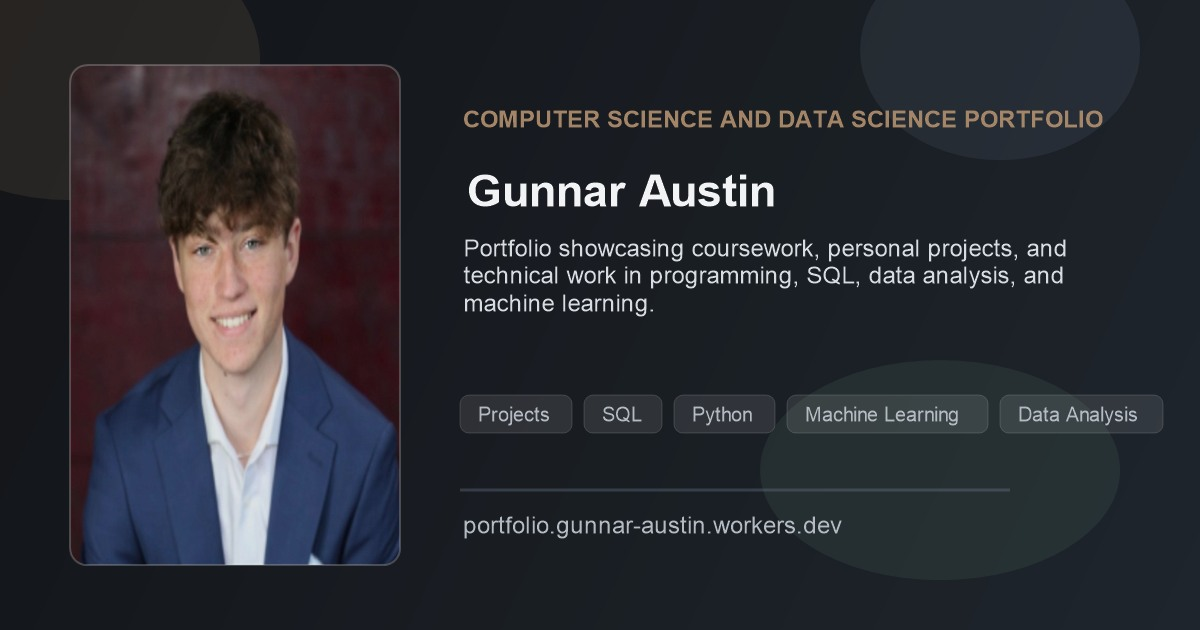
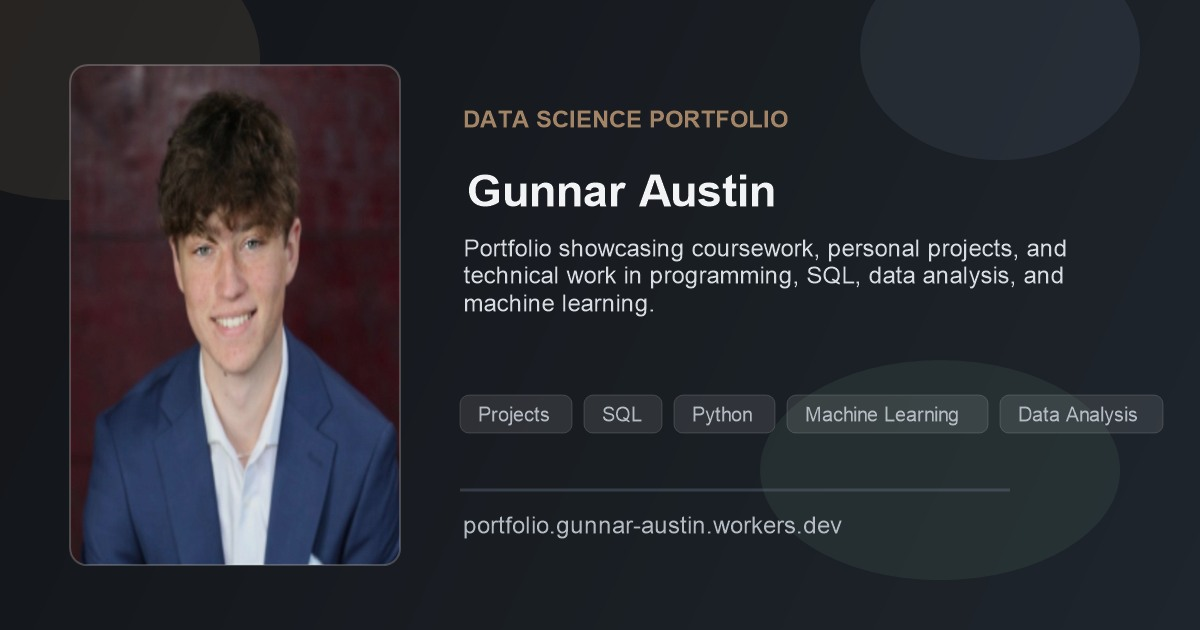
Refine portfolio branding to data science

Changed region(s): [[0.37, 0.1508, 0.925, 0.2111]]

diff --git a/index.html b/index.html
@@ -3,7 +3,7 @@
 <head>
   <meta charset="utf-8">
   <meta name="viewport" content="width=device-width, initial-scale=1">
-  <title>Gunnar Austin | Computer Science and Data Science Portfolio</title>
+  <title>Gunnar Austin | Data Science Portfolio</title>
   <link rel="stylesheet" href="css/style.css">
   <link rel="icon" type="image/png" href="https://portfolio.gunnar-austin.workers.dev/assets/favicon.png">
   <meta
@@ -16,7 +16,7 @@
 
   <meta property="og:site_name" content="Gunnar Austin Portfolio">
   <meta property="og:locale" content="en_US">
-  <meta property="og:title" content="Gunnar Austin | Computer Science and Data Science Portfolio">
+  <meta property="og:title" content="Gunnar Austin | Data Science Portfolio">
   <meta
     property="og:description"
     content="Portfolio showcasing coursework, personal projects, and technical work in programming, SQL, data analysis, and machine learning."
@@ -28,15 +28,15 @@
   <meta property="og:image:type" content="image/jpeg">
   <meta property="og:image:width" content="1200">
   <meta property="og:image:height" content="630">
-  <meta property="og:image:alt" content="Social preview for Gunnar Austin's computer science and data science portfolio">
+  <meta property="og:image:alt" content="Social preview for Gunnar Austin's data science portfolio">
   <meta name="twitter:card" content="summary_large_image">
-  <meta name="twitter:title" content="Gunnar Austin | Computer Science and Data Science Portfolio">
+  <meta name="twitter:title" content="Gunnar Austin | Data Science Portfolio">
   <meta
     name="twitter:description"
     content="Portfolio showcasing coursework, personal projects, and technical work in programming, SQL, data analysis, and machine learning."
   >
   <meta name="twitter:image" content="https://portfolio.gunnar-austin.workers.dev/assets/og-image.jpg">
-  <meta name="twitter:image:alt" content="Social preview for Gunnar Austin's computer science and data science portfolio">
+  <meta name="twitter:image:alt" content="Social preview for Gunnar Austin's data science portfolio">
 
   <meta name="theme-color" content="#1c1f24">
 </head>
